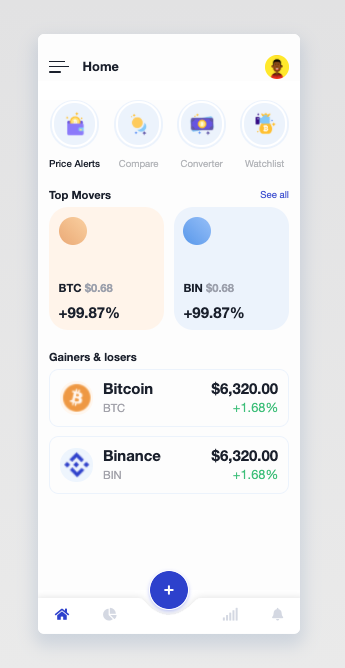
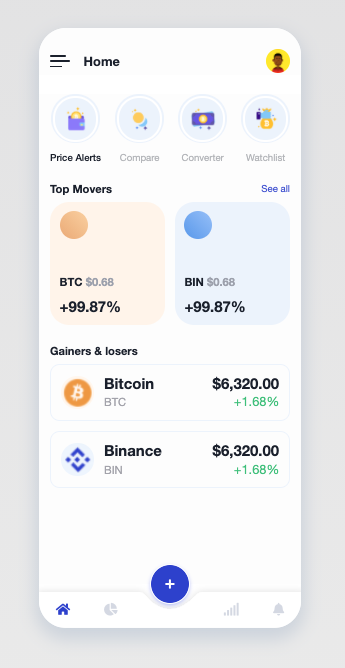
Day 1

diff --git a/Day 1/assets/css/app.css b/Day 1/assets/css/app.css
@@ -100,7 +100,7 @@ section:not(:first-child) {
 	#app {
 		margin: 12px 0;
 		max-height: 750px;
-		border-radius: 8px;
+		border-radius: 34px;
 		position: relative;
 		background-color: #FFFFFF;
 		box-shadow: 0 10px 20px 5px rgba(141, 162, 190, 0.3);
